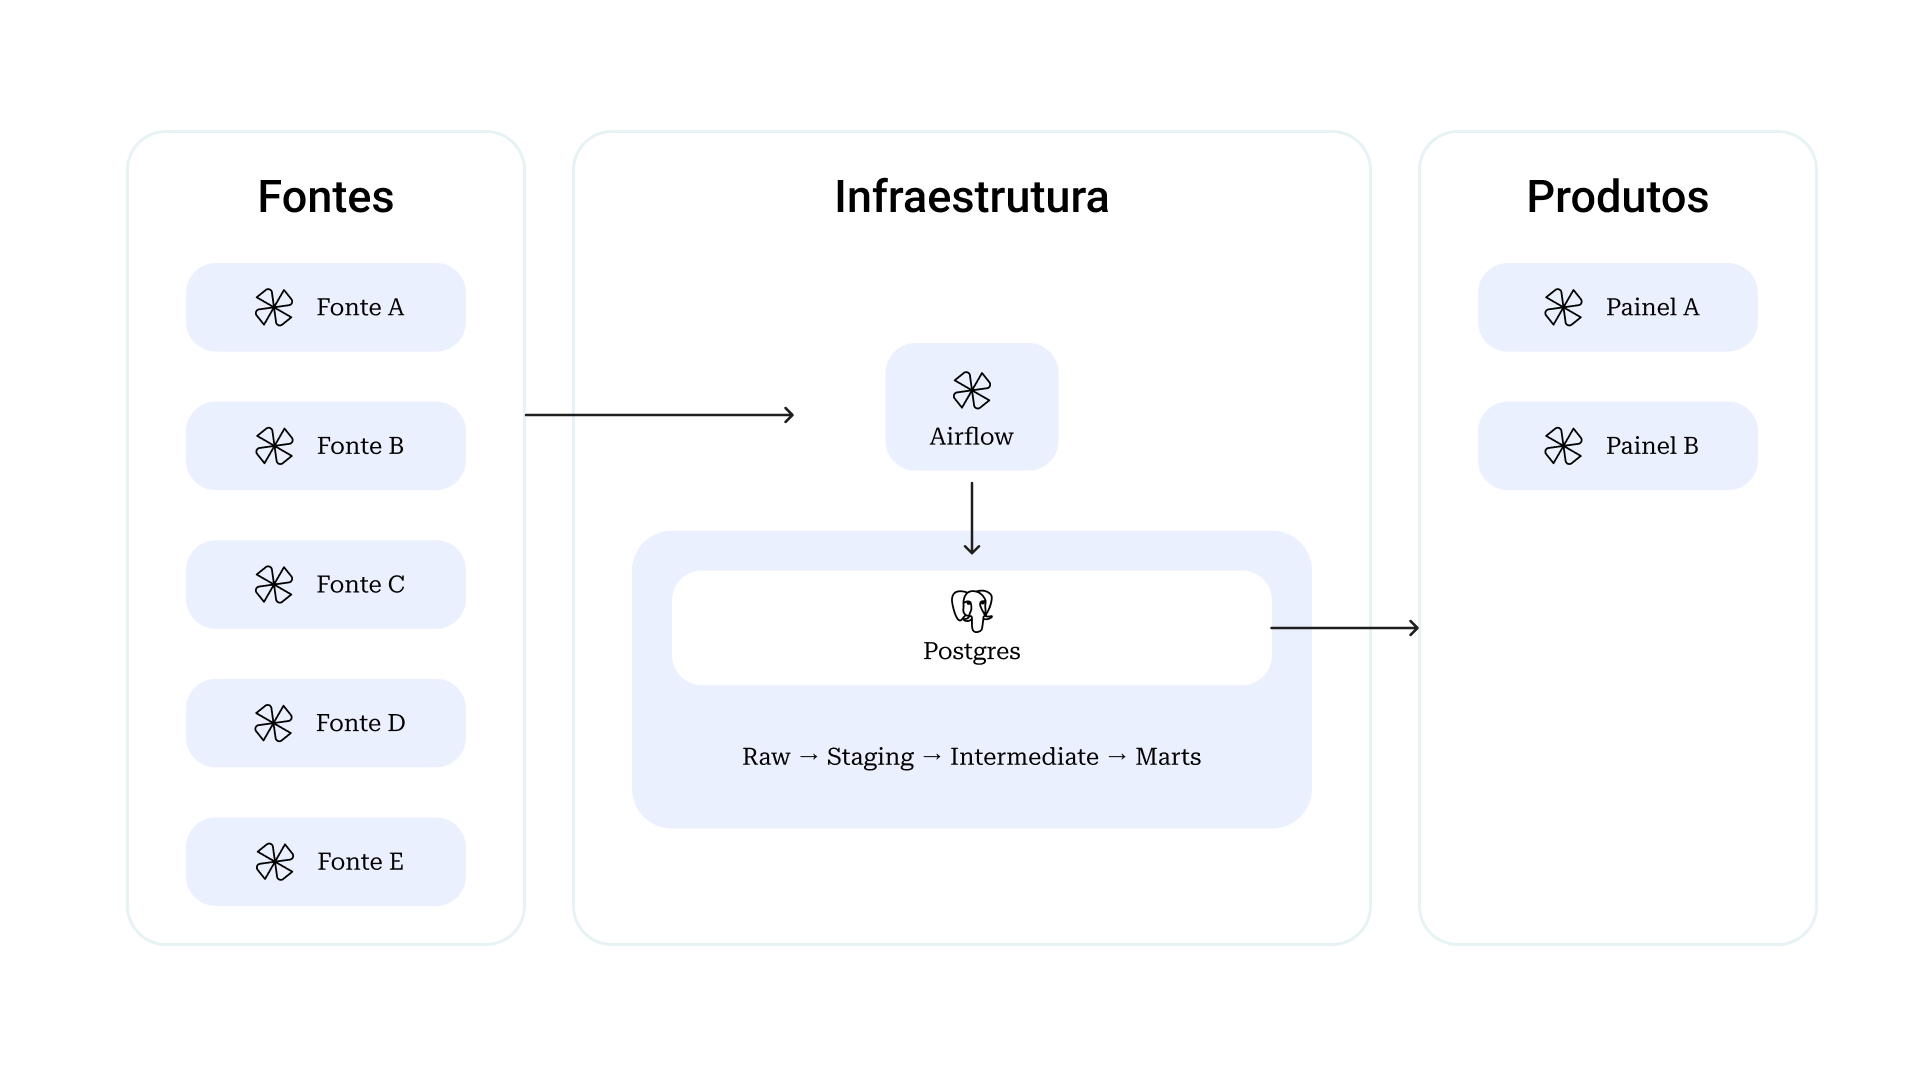
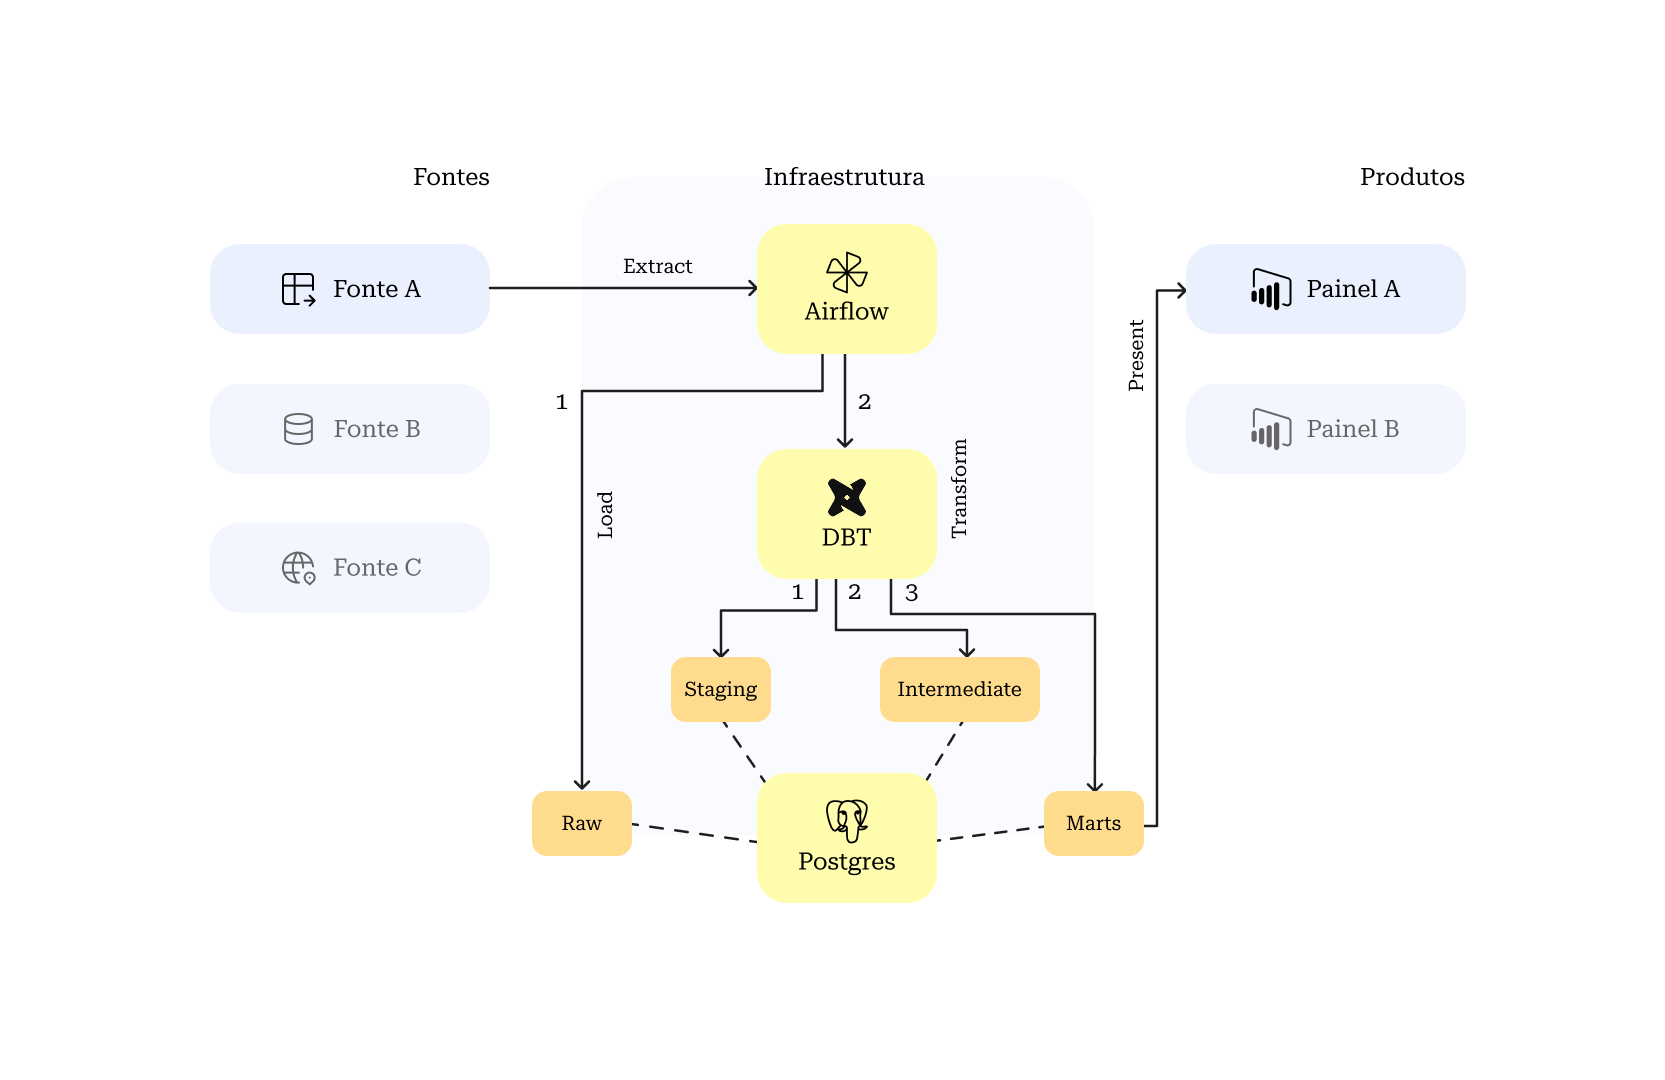
feature: atualizando diagrama do figma

diff --git a/05-apresentando-nova-arquitetura/README.md b/05-apresentando-nova-arquitetura/README.md
@@ -27,14 +27,13 @@ dados em 4 fases:
 - Intermediate
 - Marts
 
-Para esse caso, vamos imaginar que temos 5 fontes de dados e 2 produtos de 
+Para esse caso, vamos imaginar que temos 3 fontes de dados e 2 produtos de 
 visualização.
 
 Fontes:
 - A: Planiha
 - B: Banco de dados
 - C: Planilha
-- D: Site
 
 Paineis:
 - Painel A